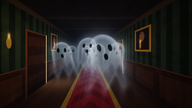
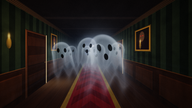
Halloween fase 25: bosque de faroles (28) y pasillo (07) con relieve
Bosque: relieve de la capa cercana (troncos con corteza, rama, hojas,
suelo); cada farol ilumina su tronco del lado que lo mira. Pasillo:
normal horneada en el mundo (zocalo, puertas, marcos, molduras, piso,
vigas) y luz de las velas desde su posicion real, modulando la de
siempre. 07 ~20 % mas de costo; 28 igual.

Claude-Session: https://claude.ai/code/session_01NVP2u1MWPb16oy8b6RCqty

Changed region(s): [[0.6875, 0.2222, 0.8125, 0.5], [0.125, 0.25, 0.1875, 0.3056], [0.0312, 0.3611, 0.0625, 0.4444]]

diff --git a/td/tools/bake_plates_pasillo.py b/td/tools/bake_plates_pasillo.py
@@ -21,7 +21,7 @@ OUT = os.path.join(SETS, 'scene07')
 SS = 2
 R = (-3.1, -1.2, 3.1, 1.2)
 W, H = 1280, 496
-PLATES = [('1_pasillo', 0), ('2_marcas', 1)]
+PLATES = [('1_pasillo', 0), ('2_marcas', 1), ('4_relieve', 2)]
 
 VERT = """#version 330
 in vec2 in_pos; out vec2 vUV;
@@ -156,8 +156,84 @@ vec4 shade(vec2 p, out vec2 marks){
   return vec4(c,a);
 }
 
+
+// ---------- RELIEVE (fase 25) ----------
+// Altura sobre cada superficie del pasillo: tablas del piso y borde de la
+// alfombra, vigas, zocalo de paneles, molduras, puertas con tableros y
+// marco, retratos con marco dorado, apliques. Se hornea la NORMAL EN EL
+// MUNDO (x, y, z del pasillo) para que la escena ilumine con las velas y
+// los fantasmas desde su posicion real.
+float hgt(vec2 p, out vec3 X, out float id){
+  vec4 s=surf(p);
+  X=vec3(s.xy, s.z); id=s.w;
+  float h=0.;
+  if(id==0.){
+    float bx=fract(X.x*5.);
+    h=0.006*smoothstep(0.,0.04,bx)*smoothstep(1.,0.96,bx);
+    if(abs(X.x)<0.55){ h=0.012+0.004*step(0.45,abs(X.x)); }
+  } else if(id==1.){
+    h=0.04*step(0.82,fract(X.z*1.1));
+  } else if(id<3.5){
+    float Y=X.y, Z=X.z;
+    h=0.002*step(0.5,fract(Z*6.));
+    if(Y>0.82) h=0.03*(0.5+0.5*fract(Y*30.));
+    if(Y<-0.38){
+      float pz=fract(Z*1.6); float py=(Y+1.05)/0.67;
+      float panel=smoothstep(0.08,0.12,pz)*smoothstep(0.92,0.88,pz)*smoothstep(0.16,0.20,py)*smoothstep(0.84,0.80,py);
+      h=0.02+0.012*panel;
+      if(abs(Y+0.38)<0.02) h=0.04;
+    }
+    vec2 dz = id==2.? vec2(1.25,1.85) : vec2(2.55,3.10);
+    if(Z>dz.x && Z<dz.y && Y<0.45){
+      float fr=min(min(Z-dz.x,dz.y-Z), 0.45-Y);
+      h=-0.02+0.012*step(0.06,fr)*step(0.5,fract((Y+1.05)*2.2));
+      if(fr<0.04) h=0.03*smoothstep(0.0,0.02,fr);
+      vec2 kn=vec2(Z-(id==2.?dz.y-0.06:dz.x+0.06), Y+0.38);
+      h+=0.02*smoothstep(0.02,0.0,length(kn*vec2(1.,2.)));
+    }
+    vec2 pz2 = id==2.? vec2(2.05,2.45) : vec2(1.35,1.85);
+    if(Z>pz2.x && Z<pz2.y && Y>-0.05 && Y<0.60){
+      float fr=min(min(Z-pz2.x,pz2.y-Z),min(Y+0.05,0.60-Y));
+      h=0.01;
+      if(fr<0.05) h=0.01+0.03*sin(fr/0.05*3.14159)*(0.85+0.15*fract(fr*80.));
+    }
+    for(int k=0;k<2;k++){
+      float zs = k==0?1.0:2.25;
+      float zz = id==2.?zs:zs+0.65;
+      vec2 sq=vec2((Z-zz)*1.8, Y-0.12);
+      float r=length(sq*vec2(1.,0.6));
+      if(r<0.06) h=0.03*sqrt(1.-r*r/0.0036);
+    }
+  } else {
+    vec2 b=X.xy;
+    if(b.y<-0.38) h=0.02;
+  }
+  return h;
+}
+vec3 baseN(float id, vec3 X){
+  if(id==0.) return vec3(0.,1.,0.);
+  if(id==1.) return vec3(0.,-1.,0.);
+  if(id==2.) return vec3(1.,0.,0.);
+  if(id<3.5) return vec3(-1.,0.,0.);
+  return vec3(0.,0.,-1.);
+}
+vec4 reliefW(vec2 p){
+  vec3 X; float id;
+  float h=hgt(p,X,id);
+  vec3 nb=baseN(id,X);
+  float e=0.0025;
+  vec3 X1,X2,X3,X4; float i1,i2,i3,i4;
+  float h1=hgt(p+vec2(e,0.),X1,i1), h2=hgt(p-vec2(e,0.),X2,i2), h3=hgt(p+vec2(0.,e),X3,i3), h4=hgt(p-vec2(0.,e),X4,i4);
+  if(i1!=id||i2!=id||i3!=id||i4!=id||X.z>4.5) return vec4(nb*0.5+0.5,1.);
+  vec3 dx=(X1+nb*h1)-(X2+nb*h2), dy=(X3+nb*h3)-(X4+nb*h4);
+  vec3 n=normalize(cross(dx,dy));
+  if(dot(n,nb)<0.) n=-n;
+  return vec4(n*0.5+0.5,1.);
+}
+
 void main(){
   vec2 p = mix(rect.xy, rect.zw, vUV);
+  if(plate==2){ fc=reliefW(p); return; }
   vec2 marks;
   vec4 c=shade(p,marks);
   if(plate==1){ fc=vec4(marks,0.,1.); return; }

diff --git a/td/tools/bake_plates_faroles.py b/td/tools/bake_plates_faroles.py
@@ -13,6 +13,8 @@ Laminas:
   2_medio   color (lineal x2, gamma 2.2), A = cobertura
   3_cerca   idem
   4_ruido   el ruido que se repite de la escena 00 (niebla)
+  5_cerca_relieve  relieve de la capa cercana (fase 25): RG normal, A = hay
+            algo; la luz de cada farol se calcula en vivo con esto
 
 uso: python3 td/tools/bake_plates_faroles.py   (despues: build_atlas.py)
 """
@@ -31,7 +33,7 @@ FRAG = os.path.join(SET, 'visuals', 'scene28_bosque_faroles.frag')
 SS = 2
 R = (-3.4, -1.25, 3.4, 1.25)
 W, H = 1280, 470
-PLATES = [('1_lejos', 0), ('2_medio', 1), ('3_cerca', 2)]
+PLATES = [('1_lejos', 0), ('2_medio', 1), ('3_cerca', 2), ('5_cerca_relieve', 3)]
 
 VERT = """#version 330
 in vec2 in_pos; out vec2 vUV;
@@ -168,9 +170,52 @@ vec4 layerNear(vec2 p){
   return vec4(c,a);
 }
 
+
+// ---------- RELIEVE de la capa cercana (fase 25) ----------
+// Troncos como cilindros con surcos de corteza, la rama gruesa como tubo,
+// las hojas que cuelgan y el suelo de hojas con su bulto: la escena saca
+// la normal y cada farol ilumina su tronco del lado que lo mira.
+float ridgeB(vec2 p, float u, float seed){
+  return 1.-abs(fract(u*4.+fbm(vec2(u*3.,p.y*0.9+seed),4)*1.6)-0.5)*2.;
+}
+float nearH(vec2 p, out float on){
+  on=0.; float h=0.;
+  float gy=flGround(2,p.x);
+  if(p.y<gy){ on=1.;
+    vec2 g=p*vec2(14.,26.); vec2 id=floor(g); vec2 f=fract(g)-0.5; vec2 hh=h22(id);
+    vec2 q=rot(hh.x*6.28)*(f-(hh-0.5)*0.4);
+    h=0.004*smoothstep(0.04,-0.04,length(q*vec2(1.,2.0))-0.40)+0.003*fbm(p*12.,3); }
+  for(int i=0;i<2;i++){
+    float x0=i==0?-2.55:2.45;
+    vec2 tr=trunk(p,x0,0.22,float(i)*7.,i==0?0.05:-0.04,flGround(2,x0));
+    if(tr.x<0.){ on=1.; float u=tr.y; float w=0.22*(1.0+1.1*exp(-(p.y-flGround(2,x0))*4.0));
+      h=sqrt(max(1.-u*u,0.))*w*0.6+0.014*ridgeB(p,u,float(i)*9.+2.)+0.004*fbm(vec2(u*14.,p.y*9.),4); }
+  }
+  float br=branch(p,2,0.035);
+  if(br<0.){ on=1.; float u=clamp((p.y-flBranch(2,p.x))/0.05,-1.,1.);
+    h=0.30+sqrt(max(1.-u*u,0.))*0.03+0.004*ridgeB(vec2(p.y*3.,p.x),u,4.); }
+  vec2 g=p*vec2(18.,22.); vec2 id=floor(g); vec2 f=fract(g)-0.5; vec2 hh=h22(id);
+  float near=abs(p.y-flBranch(2,p.x)+0.04)-0.06;
+  float lf=smoothstep(0.04,-0.04,length(rot(hh.x*6.)*(f-(hh-0.5)*0.4)*vec2(1.,2.))-0.38)*step(near,0.)*step(0.45,hh.y);
+  if(lf>0.){ on=1.; h=max(h,0.32+lf*0.005); }
+  return h;
+}
+vec4 nearRelief(vec2 p){
+  float on,o2; float h=nearH(p,on);
+  if(on<0.5) return vec4(0.5,0.5,1.,0.);
+  float e=0.0026;
+  float hx=nearH(p+vec2(e,0.),o2)-nearH(p-vec2(e,0.),o2);
+  float hy=nearH(p+vec2(0.,e),o2)-nearH(p-vec2(0.,e),o2);
+  // un salto de altura (borde de tronco sobre el fondo) no es pendiente
+  hx=clamp(hx,-0.02,0.02); hy=clamp(hy,-0.02,0.02);
+  vec3 n=normalize(vec3(-hx/(2.*e),-hy/(2.*e),1.));
+  return vec4(n.xy*0.5+0.5,1.,1.);
+}
+
 void main(){
   vec2 p=mix(rect.xy,rect.zw,vUV);
   if(plate==0){ fc=layerFar(p); return; }
+  if(plate==3){ fc=nearRelief(p); return; }
   vec4 c=plate==1?layerMid(p):layerNear(p);
   fc=vec4(pow(clamp(c.rgb*2.,0.,1.),vec3(1./2.2)),c.a);
 }

diff --git a/docs/53_SETS_Y_HALLOWEEN.md b/docs/53_SETS_Y_HALLOWEEN.md
@@ -522,3 +522,11 @@ Mapa de alturas horneado (`height()` en `bake_plates_reloj.py`, lámina `4_relie
 - **Esqueleto (17):** el atlas de huesos (`bake_plates_esqueleto.py`, láminas `3_huesos_color` y `4_huesos_relieve`) se hornea con volumen real: huesos largos y costillas redondeados como tubos, cráneo en domo con pómulos, arco de las cejas, cuencas y nariz hondas con borde, dientes uno por uno, sutura y vértebras; la oclusión va en el color. Antes el relieve era casi plano (la normal se escalaba x0,01). En vivo, además, **las baldosas encendidas lo iluminan desde abajo** (D6, el bajo y la ola del clímax).
 - **Momia (12):** cada venda es un tubo: el canto de arriba mira hacia arriba y el de abajo hacia abajo, con los cantos más oscuros; las antorchas marcan cada vuelta.
 - **Costo:** igual que antes en el banco de prueba. **Reconstruir Todo:** cambiaron las láminas de la 17.
+
+## Fase 25: bosque de faroles y pasillo con relieve (escenas 28 y 07)
+
+![Antes y ahora](img/bosque_pasillo_2d_vs_3d.jpg)
+
+- **Bosque (28):** la capa cercana tiene relieve (`5_cerca_relieve`): troncos cilíndricos con surcos de corteza, la rama gruesa como tubo, hojas y suelo. Cada farol ilumina el tronco del lado que lo mira. El atlas de la escena bajó a 0,84 de escala para que entre la lámina nueva.
+- **Pasillo (07):** relieve horneado como **normal en el mundo del pasillo** (`4_relieve` de `bake_plates_pasillo.py`): paneles del zócalo, tableros y marco de las puertas, marcos de los retratos, molduras, tablas del piso, borde de la alfombra y vigas. Las velas lo iluminan desde su posición real; el relieve solo suma o resta luz alrededor de la de siempre, así la luz rasante de la vela sobre su propia pared no se apaga.
+- **Costo:** 07 sube ~20 %; 28 igual. **Reconstruir Todo:** láminas nuevas.

diff --git a/CLAUDE.md b/CLAUDE.md
@@ -37,3 +37,4 @@ Trabajar en una rama; hacer **commit y push**. Desde el 21 de octubre de 2026: *
 - **Fase 22** (rama `claude/halloween-f22-mansion-3d`, sobre f21): relieve de la fachada de la mansión (26) con luz en vivo.
 - **Fase 23** (rama `claude/halloween-f23-reloj-3d`, sobre f22): relieve de la torre y la esfera del reloj (27).
 - **Fase 24** (rama `claude/halloween-f24-momia-esqueleto-3d`, sobre f23): huesos con volumen (17) y vendas como tubos (12).
+- **Fase 25** (rama `claude/halloween-f25-bosque-fantasmas-3d`, sobre f24): relieve en el bosque (28, capa cercana) y en el pasillo (07, normal en el mundo).
